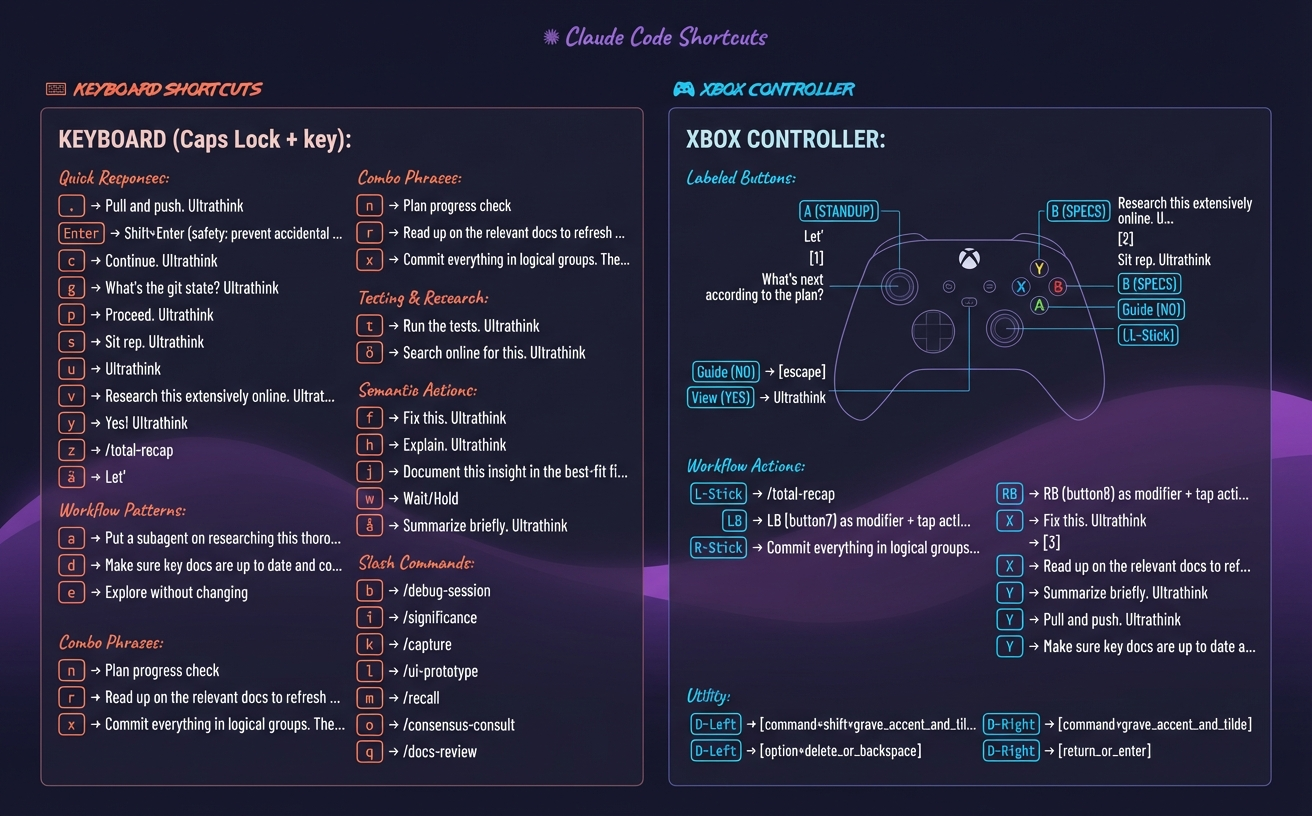
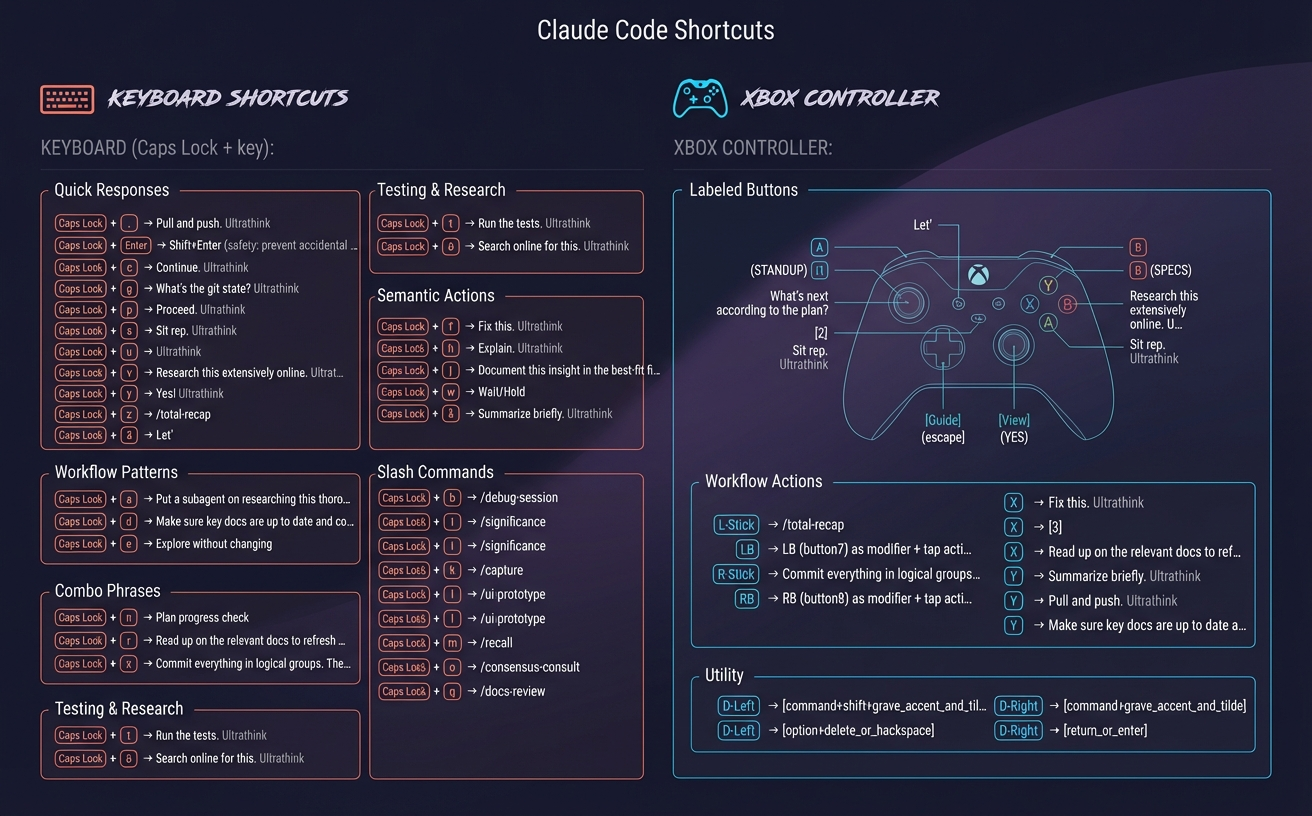
Regenerate cheatsheet with 31 keyboard + 22 Xbox mappings
Also documented Python venv setup in CLAUDE.md for cheatsheet generation.

🤖 Generated with [Claude Code](https://claude.com/claude-code)

diff --git a/CLAUDE.md b/CLAUDE.md
@@ -36,7 +36,7 @@ QWERTY: z x c v b n m , . /
 **After ANY modification to `mods/keyboard_text_shortcuts.json`, you MUST regenerate the cheat sheet:**
 
 ```bash
-python3 scripts/generate_cheatsheet_ai.py
+.venv/bin/python scripts/generate_cheatsheet_ai.py
 ```
 
 This ensures the visual documentation stays in sync with the actual shortcuts.
@@ -48,6 +48,8 @@ The script:
 4. Generates `docs/cheatsheet_ai.png` using Gemini 3 Pro Image (Nano Banana Pro)
 
 **Requires**: `GEMINI_API_KEY` environment variable
+
+**Python Environment**: Uses project venv at `.venv/` with `google-genai` installed. If missing: `python3 -m venv .venv && .venv/bin/pip install google-genai`
 
 ## Adding New Shortcuts
 
